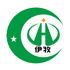
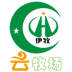
update

diff --git a/src/main/webapp/js/fangwei.js b/src/main/webapp/js/fangwei.js
@@ -71,35 +71,41 @@ function renderTrace(body) {
         farming += " alt=''></td></tr></table>";
     }
     if(body['farming']['immuneRecord'] != ""){
-        var item = body['farming']['immuneRecord'];
         farming += "<h3>免疫记录</h3>";
-        farming += "<table>";
-        farming += "<tr><td>免疫时间: " + item['immuneTime'] + "</td></tr>";
-        farming += "<tr><td>疫苗品种: " + item['vaccineType'] + "</td></tr>";
-        farming += "<tr><td>免疫方法: " + item['immuneWay'] + "</td></tr>";
-        farming += "<tr><td>免疫人员: " + item['immunePerson'] + "</td></tr>";
-        farming += "</table>";
+        for(var i in body['farming']['immuneRecord']) {
+            var item = body['farming']['immuneRecord'][i];
+            farming += "<table>";
+            farming += "<tr><td>免疫时间: " + item['immuneTime'] + "</td></tr>";
+            farming += "<tr><td>疫苗品种: " + item['vaccineType'] + "</td></tr>";
+            farming += "<tr><td>免疫方法: " + item['immuneWay'] + "</td></tr>";
+            farming += "<tr><td>免疫人员: " + item['immunePerson'] + "</td></tr>";
+            farming += "</table>";
+        }
     }
     if(body['farming']['diagnosis'] != ""){
-        var item = body['farming']['diagnosis'];
         farming += "<h3>诊疗记录</h3>";
-        farming += "<table>";
-        farming += "<tr><td>诊疗时间: " + item['diagnosisTime'] + "</td></tr>";
-        farming += "<tr><td>诊疗结果: " + item['diagnosisResult'] + "</td></tr>";
-        farming += "<tr><td>诊疗方案: " + item['treatmentPlan'] + "</td></tr>";
-        farming += "<tr><td>用药名称: " + item['drug'] + "</td></tr>";
-        farming += "<tr><td>诊疗人员: " + item['person'] + "</td></tr>";
-        farming += "</table>";
+        for(var i in body['farming']['diagnosis']) {
+            var item = body['farming']['diagnosis'][i];
+            farming += "<table>";
+            farming += "<tr><td>诊疗时间: " + item['diagnosisTime'] + "</td></tr>";
+            farming += "<tr><td>诊疗结果: " + item['diagnosisResult'] + "</td></tr>";
+            farming += "<tr><td>诊疗方案: " + item['treatmentPlan'] + "</td></tr>";
+            farming += "<tr><td>用药名称: " + item['drug'] + "</td></tr>";
+            farming += "<tr><td>诊疗人员: " + item['person'] + "</td></tr>";
+            farming += "</table>";
+        }
     }
 
     if(body['farming']['feedingRecord'] != ""){
-        var item = body['farming']['feedingRecord'];
         farming += "<h3>喂养记录</h3>";
-        farming += "<table>";
-        farming += "<tr><td>喂养时间: " + item['feedingTime'] + "</td></tr>";
-        farming += "<tr><td>喂养饲料: " + item['feed'] + "</td></tr>";
-        farming += "<tr><td>喂养牧草: " + item['grass'] + "</td></tr>";
-        farming += "</table>";
+        for(var i in body['farming']['feedingRecord']) {
+            var item = body['farming']['feedingRecord'][i];
+            farming += "<table>";
+            farming += "<tr><td>喂养时间: " + item['feedingTime'] + "</td></tr>";
+            farming += "<tr><td>喂养饲料: " + item['feed'] + "</td></tr>";
+            farming += "<tr><td>喂养牧草: " + item['grass'] + "</td></tr>";
+            farming += "</table>";
+        }
     }
 
     if(body['farming']['disinfectionRecord'] != ""){
@@ -205,7 +211,7 @@ function renderTrace(body) {
         process += "<table>";
         process += "<tr><td>排酸日期: " + item['date'] + "</td></tr>";
         process += "<tr><td>温度: " + item['temperature'] + "</td></tr>";
-        process += "<tr><td>时间: " + item['time'] + "</td></tr>";
+        process += "<tr><td>湿度: " + item['humidity'] + "</td></tr>";
         process += "</table>";
     }
     if(body['process']['processRecord'] != ''){

diff --git a/src/main/webapp/css/mobile.css b/src/main/webapp/css/mobile.css
@@ -40,23 +40,24 @@ body {
 .header {
     padding: 0.03rem 0;
     padding-left: 0.06rem;
-    height: 0.4rem;
-    line-height: 0.4rem;
+    height: 0.5rem;
+    line-height: 0.5rem;
     background: #FFFFFF;
     box-shadow: 0 0.01rem 0.03rem 0 rgba(0, 0, 0, 0.18);
 }
 
 .header img {
-    width: 0.4rem;
-    height: 0.4rem;
+    width: 0.5rem;
+    height: 0.5rem;
     float: left;
 }
 
 .header div {
     float: left;
-    line-height: 0.4rem;
+    line-height: 0.5rem;
     color: #009944;
     text-indent: 0.1rem;
+    font-size: 0.18rem;
 }
 
 .coa {
